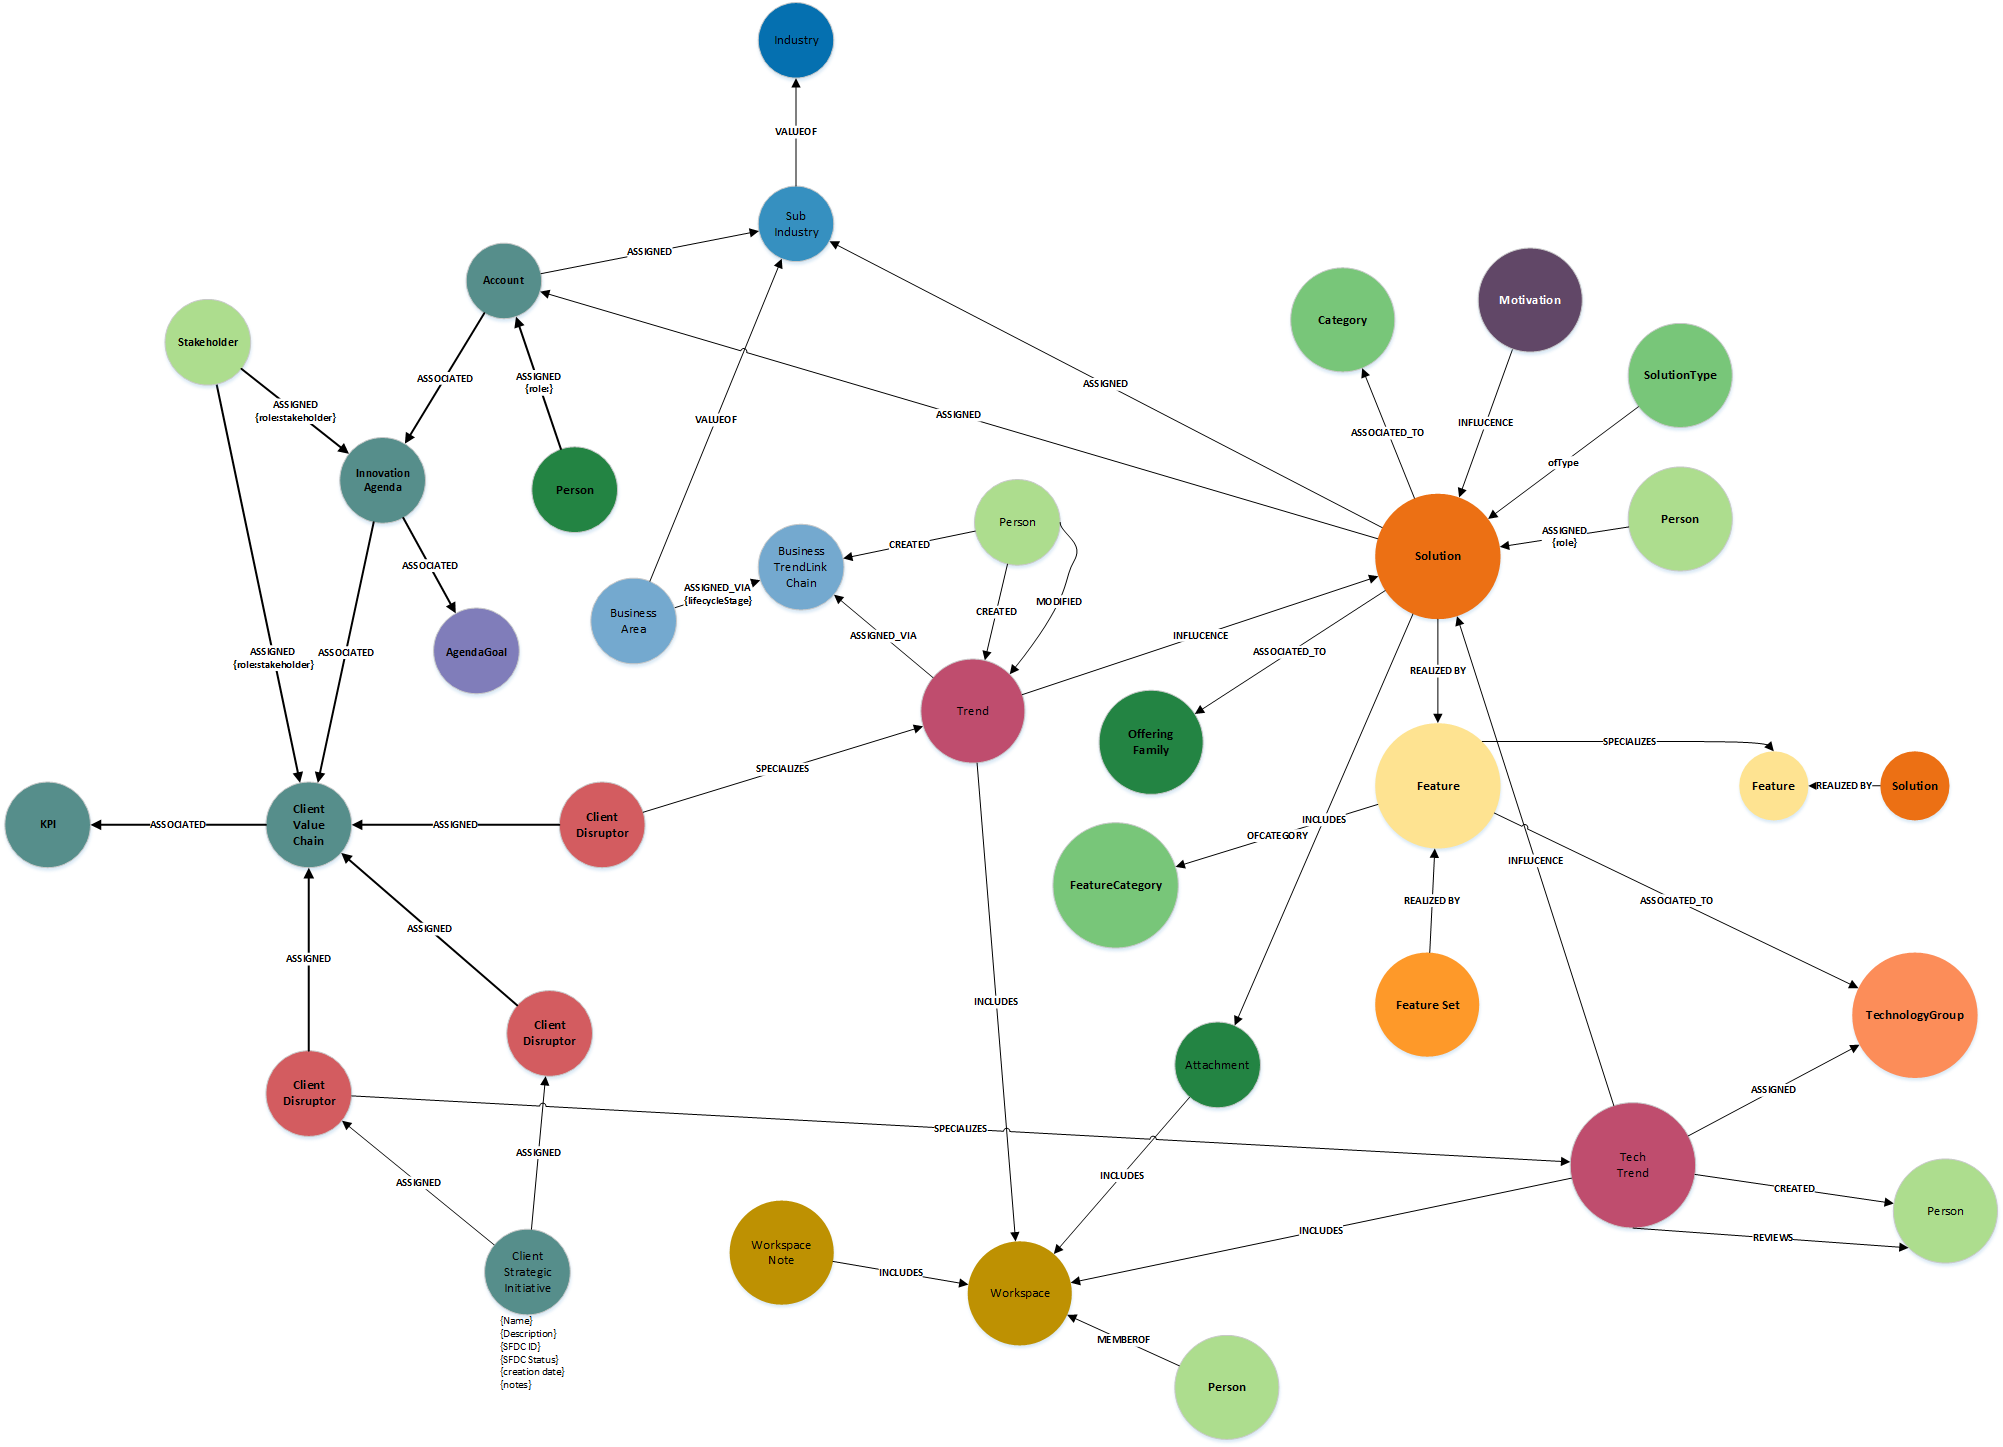
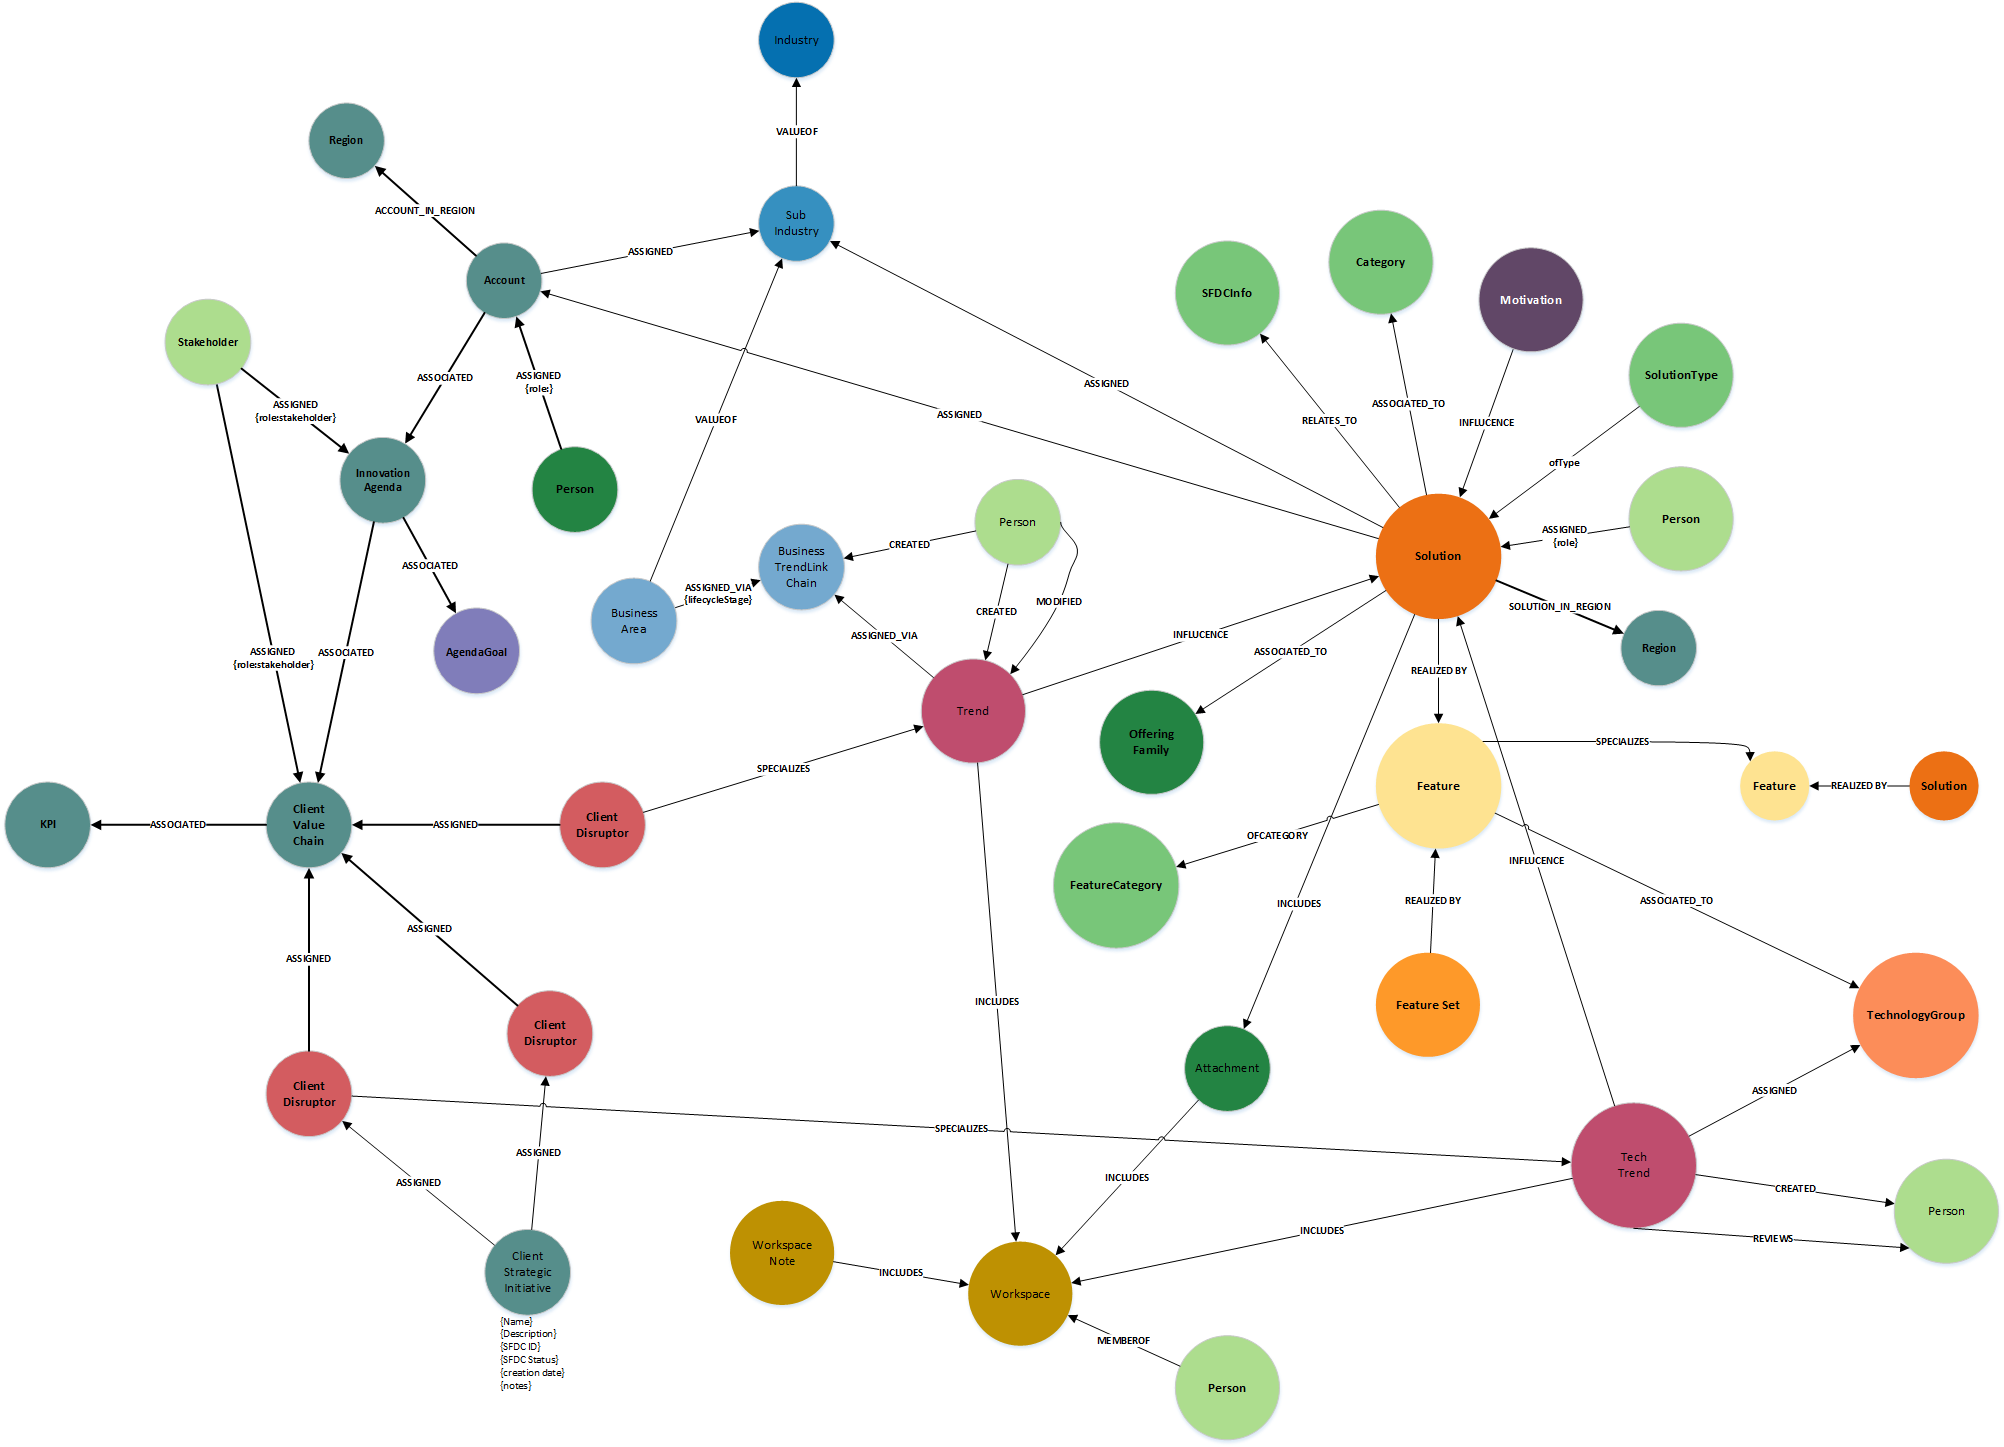
:pencil: updates to the Solution model

diff --git a/MetaModels/SolutionMetaModel.md b/MetaModels/SolutionMetaModel.md
@@ -9,18 +9,36 @@ Scope : Top level object for solutions
 Architecture Layer : Business
 Ratio : 1
 
-|Property|Description|
-|----|----|
+|Property|Description|type|limits
+|----|----|----|----|
 |id|system generated
-|objectClass|system generated value = Archimate_Product
-|name |name of the solution
-|description |extended description of the solution
-|elevatorPitch |short description of the solution - 140 character max
-|generalValue |value proposition 
-|creationDate |system generated creation date
-|lastModificationDate |system generated last modified date
-|referenceable|boolean value to set if solution is externally referencable - default = no
-|searchable|boolean value to set if the solution is returned in the search results - default = yes
+|objectClass|system generated value = `Archimate_Product`|string
+|name |name of the solution|string
+|description |extended description of the solution|string
+|elevatorPitch |short description of the solution |string|140 characters
+|generalValue |value proposition |string
+|creationDate |system generated creation date|longdate
+|Status|Status of the solution|string
+|lastModificationDate |system generated last modified date|longdate
+|referenceable|value to set if solution is externally referencable|string |default = no
+|searchable|boolean value to set if the solution is returned in the search results|boolean| default = `true`
+|solution.BusinessValue|Quantitate value of the solution in terms of business outcomes|string
+|solution.TechnicalValue|Quantitate value of the solution in terms of technical outcomes|string
+|solution.Savings|total savings of the solution in K$|number
+|Solution.ImplementationTime|total implementation time for the solution|number
+|solution.TCV|total contract value of the solution|number
+|solution.FTE|total number of resources who delivered the solution (end-2-end)|number
+
+
+####Node Label: SFDCInfo
+Scope : Captures key information related to the SFDC opportunity
+Architecture Layer : Business
+Ratio : n:n
+
+|Property|Description|type|limits
+|----|----|----|----|
+|id|system generated
+|OpportunityID|ID of the SFDC opportunity|string
 
 
 ####Node Label: Motivation
@@ -84,7 +102,6 @@ Ratio : 1:n
 |id|system generated
 |name |
 |description  
-
 
 
 
@@ -205,9 +222,21 @@ Ratio : 1:1
 |id|system generated
 |name |
 
+#### Node Label: Region
+Scope : defines the region the solution has been deployed into, or can be deployed into
+Readonly - defined within master dictionary 
+Ratio : n:n
+
+|Property|Description|
+|----|----|
+|id|system generated
+|name |
+
+
 ### Relationships
 |Source|Destination|Name|Properties|
 |----|----|----|----|
+|Solution|SFDCInfo|RELATES_TO
 |Motivation|Solution|INFLUENCE
 |TechnologyTrend|Solution|INFLUENCE
 |BusinessTrend|Solution|INFLUENCE
@@ -221,5 +250,6 @@ Ratio : 1:1
 |Solution|SolutionType|OfType
 |Solution|Account|ASSIGNED
 |Solution|Category|ASSIGNED
+|Solution|Region|SOLUTION_IN_REGION
 |Account|SubIndustry|ASSIGNED
 |SubIndustry|Industry|VALUEOF
